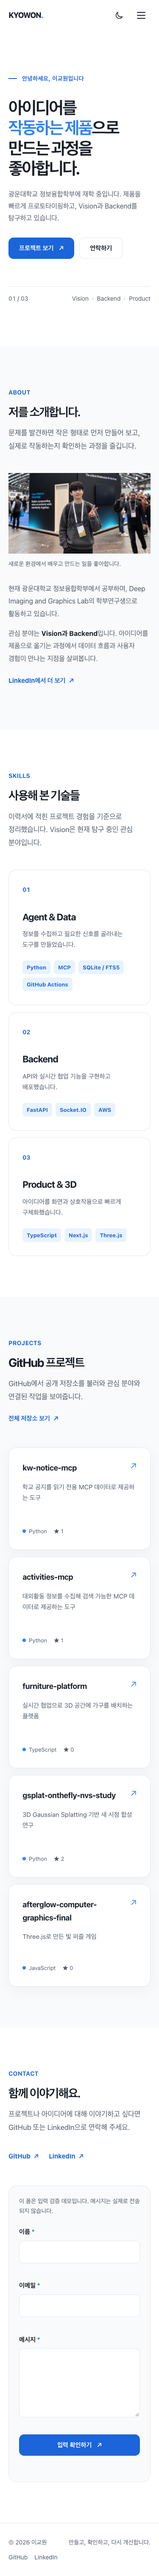
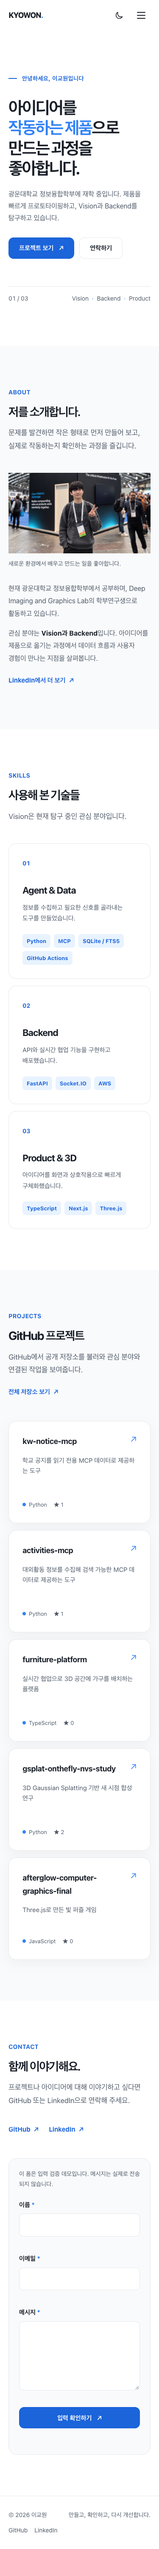
complete B1-1 DOM and Live Server setup

diff --git a/js/main.js b/js/main.js
@@ -50,7 +50,11 @@ themeToggle.addEventListener("click", () => {
 
 const setMenuOpen = (open) => {
   navigation.classList.toggle("active", open);
-  header.classList.toggle("menu-open", open);
+  if (open) {
+    header.classList.add("menu-open");
+  } else {
+    header.classList.remove("menu-open");
+  }
   menuToggle.setAttribute("aria-expanded", String(open));
   menuToggle.setAttribute("aria-label", open ? "메뉴 닫기" : "메뉴 열기");
 };
@@ -72,6 +76,7 @@ document.querySelectorAll('a[href^="#"]').forEach((link) => {
     if (!target) return;
     event.preventDefault();
     target.scrollIntoView({ behavior: matchMedia("(prefers-reduced-motion: reduce)").matches ? "instant" : "smooth" });
+    if (link.classList.contains("skip-link")) target.focus({ preventScroll: true });
     history.replaceState(null, "", link.getAttribute("href"));
     setMenuOpen(false);
   });

diff --git a/index.html b/index.html
@@ -20,6 +20,7 @@
       <a class="wordmark" href="#home" aria-label="이교원 포트폴리오, 맨 위로">KYOWON<span class="wordmark-dot">.</span></a>
 
       <nav class="site-nav" id="site-nav" aria-label="주 메뉴">
+        <a href="#home">홈</a>
         <a href="#about">소개</a>
         <a href="#skills">기술</a>
         <a href="#projects">프로젝트</a>
@@ -48,7 +49,7 @@
     </div>
   </header>
 
-  <main id="main">
+  <main id="main" tabindex="-1">
     <section class="hero section" id="home" aria-labelledby="hero-heading">
       <div class="container hero-grid">
         <div class="hero-copy">
